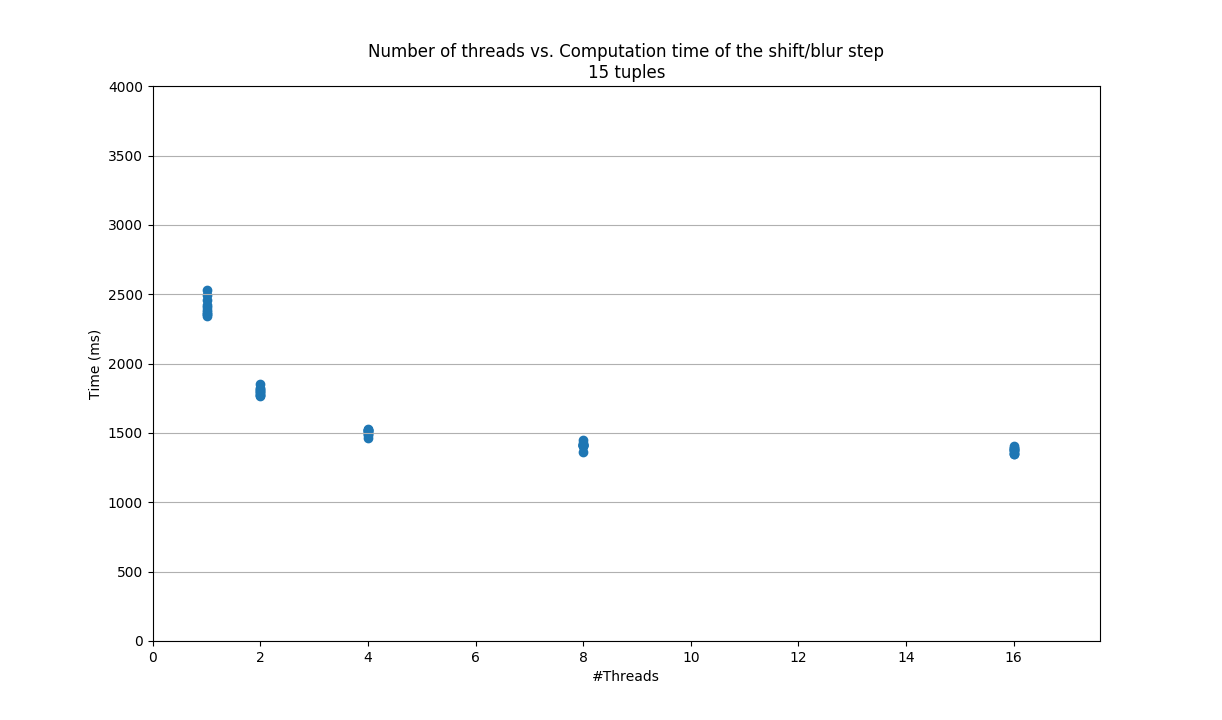
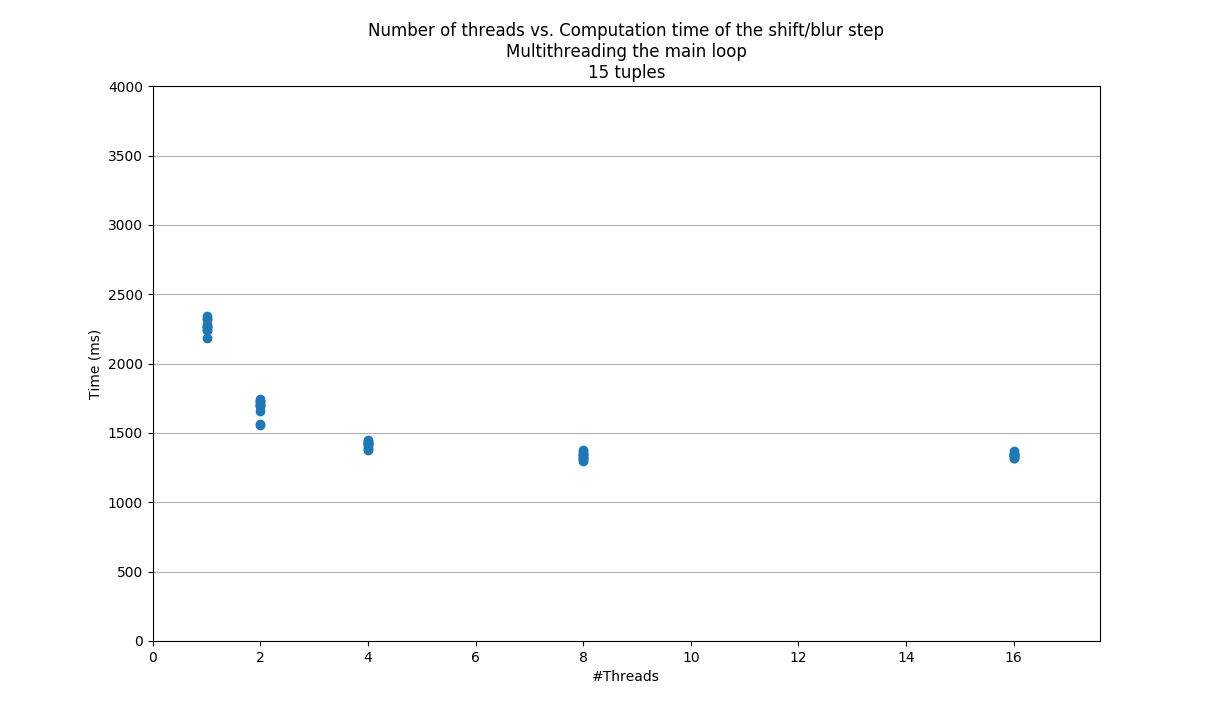
Gained some results

diff --git a/cosfire/cosfire.py b/cosfire/cosfire.py
@@ -4,6 +4,7 @@ import math as m
 import numpy as np
 import time
 from multiprocessing.dummy import Pool
+import multiprocessing as mp
 
 class COSFIRE(BaseEstimator, TransformerMixin):
 
@@ -37,6 +38,7 @@ class CircleStrategy(BaseEstimator, TransformerMixin):
 		self.numthreads = numthreads
 		if numthreads > 1:
 			self.pool = Pool(numthreads)
+			self.pool2 = Pool(mp.cpu_count())
 
 	def fit(self):
 		self.protoStack = c.ImageStack().push(self.prototype).applyFilter(self.filt, self.filterArgs)
@@ -80,9 +82,7 @@ class CircleStrategy(BaseEstimator, TransformerMixin):
 
 		# Collect shifted filter responses
 		if self.numthreads > 1:
-			tempPool = Pool(self.numthreads)
-			curResponses = tempPool.map(self.shiftResponse, curTuples)
-			tempPool.close()
+			curResponses = sel.pool2.map(self.shiftResponse, curTuples)
 		else:
 			curResponses = [self.shiftResponse(tupl) for tupl in curTuples]
 

diff --git a/experiments/stats/threads2.py b/experiments/stats/threads2.py
@@ -32,8 +32,11 @@ stats_threads = np.array(stats_threads)
 
 f, (ax1) = plt.subplots(1, 1, sharey=True)
 
+for stat in stats_threads:
+    print("{} threads,{}ms".format(int(stat[0]), int(stat[1])))
+
 ax1.scatter(stats_threads[:,0],stats_threads[:,1],marker='o')
-ax1.set_title('Number of threads vs. Computation time of the shift/blur step\n{} tuples'.format(threads_numtuples))
+ax1.set_title('Number of threads vs. Computation time of the shift/blur step\nMultithreading the main loop\n{} tuples'.format(threads_numtuples))
 ax1.axis([0,np.max(stats_threads[:,0])*1.1,0,4000])
 ax1.set_xlabel('#Threads')
 ax1.set_ylabel('Time (ms)')
